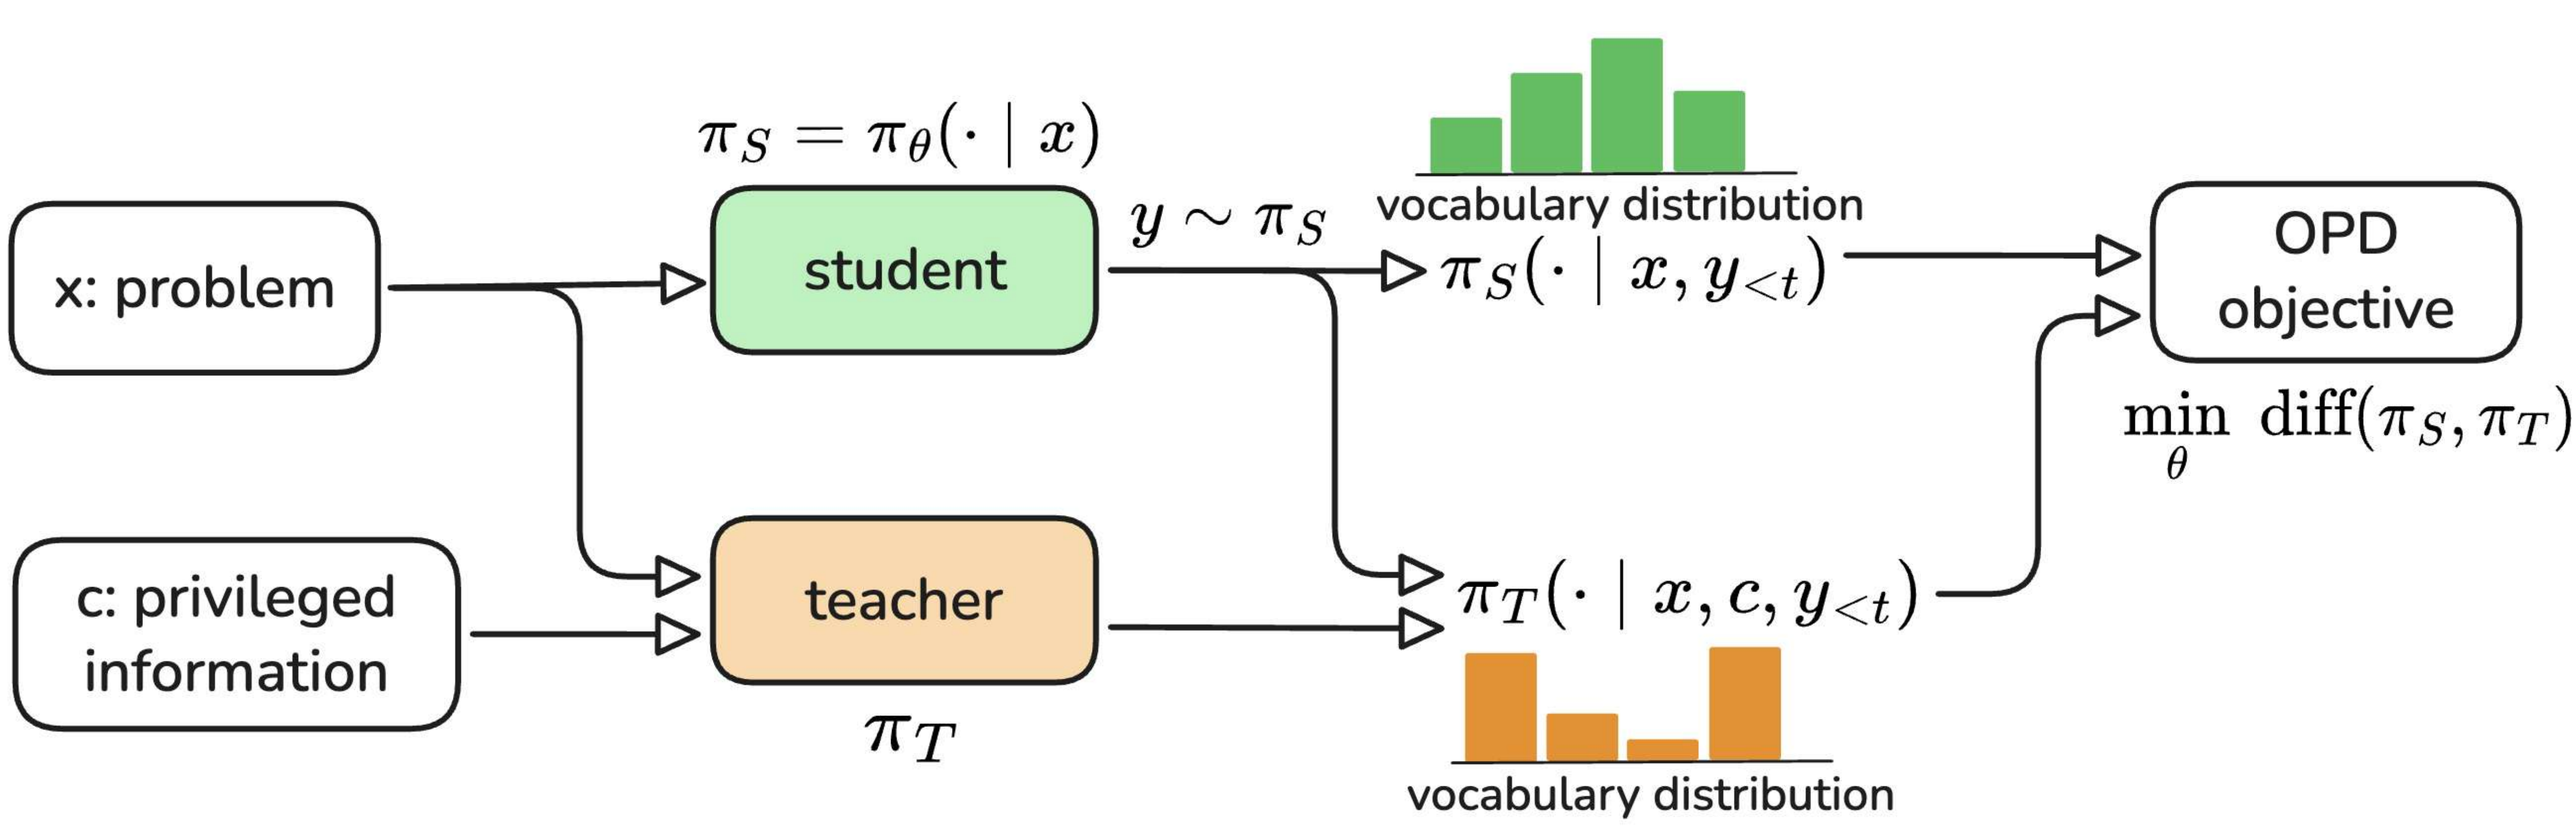
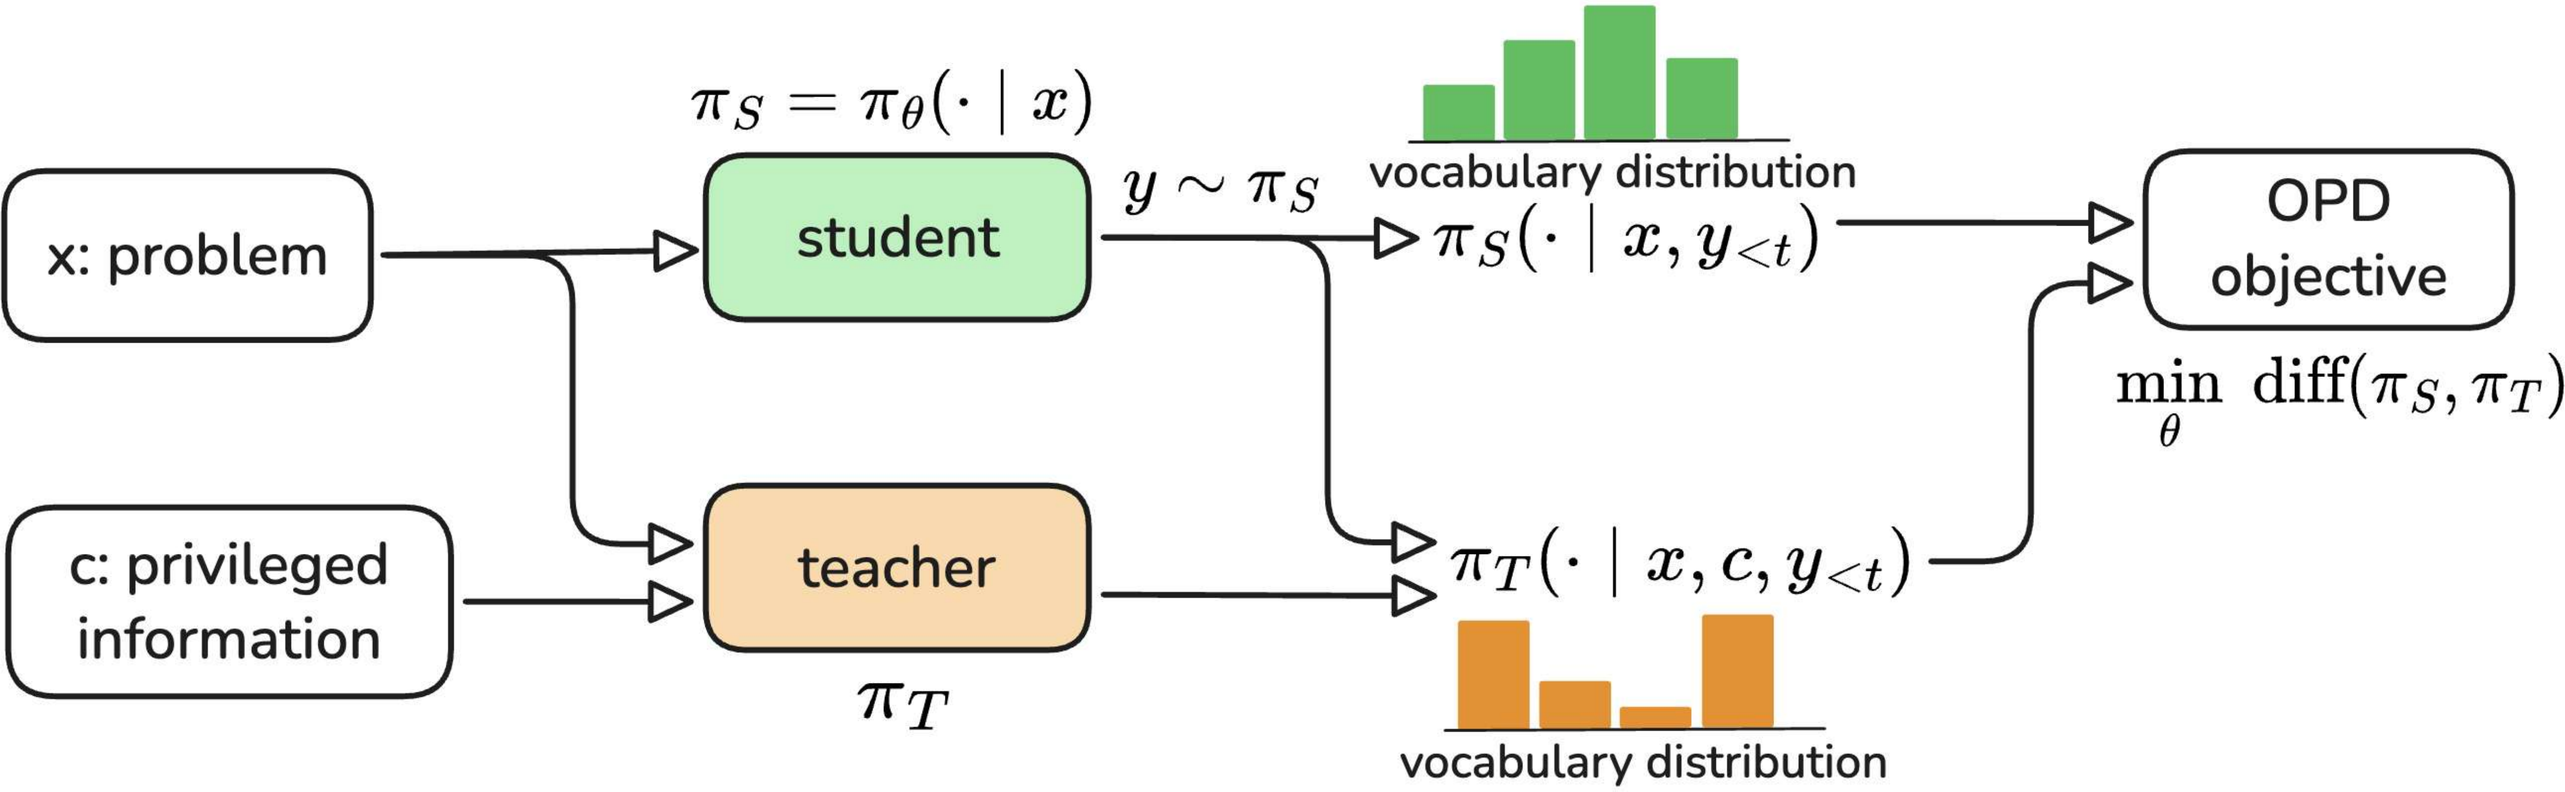
changed color

diff --git a/index.html b/index.html
@@ -45,7 +45,7 @@
   }
   a:hover{color:var(--accent)}
 
-  .container{max-width:720px;margin:0 auto;padding:0 24px}
+  .container{max-width:760px;margin:0 auto;padding:0 24px}
 
   /* Top meta strip — like Anthropic's tiny header */
   .topbar{
@@ -103,8 +103,8 @@
 
   /* SECTIONS */
   article{padding:8px 0 0}
-  section{padding:44px 0 8px}
-  section + section{padding-top:8px}
+  section{padding:36px 0 4px}
+  section + section{padding-top:4px}
   h2.eyebrow{
     font-family:var(--sans);
     font-size:12px;
@@ -125,9 +125,9 @@
   }
   h4.sub{
     font-family:var(--serif);
-    font-size:21px;
+    font-size:20px;
     font-weight:600;
-    margin:32px 0 10px;
+    margin:28px 0 8px;
     color:var(--ink);
   }
   p{margin:0 0 18px;color:var(--soft)}
@@ -137,7 +137,7 @@
 
   /* FIGURES — no card chrome, just image + italic caption */
   figure.fig{
-    margin:32px 0 8px;
+    margin:28px 0 12px;
     background:transparent;
     border:none;
     padding:0;
@@ -148,6 +148,7 @@
     width:100%;
     display:block;
     border-radius:2px;
+    mix-blend-mode:multiply;
   }
   figure.fig figcaption{
     font-family:var(--serif);
@@ -155,70 +156,76 @@
     font-size:15px;
     line-height:1.55;
     color:var(--muted);
-    margin-top:14px;
+    margin-top:12px;
     text-align:left;
     padding-left:0;
   }
-  figure.fig.fig-sm{max-width:460px;margin-left:0;margin-right:auto}
-  figure.fig.fig-md{max-width:560px;margin-left:0;margin-right:auto}
   /* break out wide figures slightly past the text column */
-  figure.fig.wide{margin-left:-40px;margin-right:-40px}
-  @media(max-width:820px){
+  figure.fig.wide{margin-left:-60px;margin-right:-60px}
+  @media(max-width:900px){
     figure.fig.wide{margin-left:0;margin-right:0}
   }
 
-  /* "Verdicts" — replace cards with inline list rows */
-  .verdicts{margin:14px 0 8px;border-top:1px solid var(--rule)}
+  /* "Verdicts" — compact 2-column grid */
+  .verdicts{
+    margin:18px 0 8px;
+    display:grid;grid-template-columns:1fr 1fr;
+    gap:0;
+    border-top:1px solid var(--rule);
+    border-left:1px solid var(--rule);
+  }
   .verdict{
     border:none;background:transparent;border-radius:0;box-shadow:none;
-    padding:18px 0;
+    padding:16px 18px;
+    border-right:1px solid var(--rule);
     border-bottom:1px solid var(--rule);
-    display:grid;grid-template-columns:120px 1fr;gap:20px;align-items:start;
   }
   .verdict .tag{
     font-family:var(--sans);
-    font-size:11px;font-weight:600;letter-spacing:.12em;
+    font-size:10.5px;font-weight:600;letter-spacing:.14em;
     text-transform:uppercase;
     padding:0;background:transparent;border-radius:0;
-    margin:6px 0 0;
+    display:block;margin:0 0 6px;
   }
   .tag.ok{color:#3f7a52}
   .tag.no{color:var(--accent)}
   .tag.mid{color:#9a7415}
   .verdict h4{
     font-family:var(--serif);
-    font-size:19px;font-weight:600;margin:0 0 4px;line-height:1.3;color:var(--ink);
+    font-size:17px;font-weight:600;margin:0 0 4px;line-height:1.3;color:var(--ink);
   }
-  .verdict p{font-size:16px;line-height:1.6;color:var(--soft);margin:0}
+  .verdict p{font-size:15px;line-height:1.55;color:var(--soft);margin:0}
 
   @media(max-width:600px){
-    .verdict{grid-template-columns:1fr;gap:6px}
+    .verdicts{grid-template-columns:1fr}
   }
 
   /* MECHANISM / FIX cards → numbered editorial blocks */
-  .cards{margin:18px 0 0;display:block}
+  .cards{margin:18px 0 0;display:block;border-top:1px solid var(--rule)}
   .card{
     background:transparent;border:none;border-radius:0;box-shadow:none;
-    padding:22px 0 22px 24px;
-    border-left:1px solid var(--rule);
+    padding:18px 0 18px 0;
+    border-bottom:1px solid var(--rule);
     margin-bottom:0;
-    border-top:none;
-  }
-  .card + .card{border-top:1px solid var(--rule)}
-  .card.fail{border-left-color:var(--accent)}
-  .card.fix{border-left-color:#3f7a52}
-  .card .num{
-    font-family:var(--sans);
-    font-size:11px;font-weight:600;letter-spacing:.18em;text-transform:uppercase;
-    color:var(--muted);
+    display:grid;grid-template-columns:120px 1fr;gap:24px;align-items:start;
   }
   .card.fail .num{color:var(--accent)}
   .card.fix .num{color:#3f7a52}
+  .card .num{
+    font-family:var(--sans);
+    font-size:11px;font-weight:600;letter-spacing:.16em;text-transform:uppercase;
+    color:var(--muted);
+    padding-top:4px;
+  }
   .card h4{
     font-family:var(--serif);
-    font-size:22px;font-weight:600;margin:6px 0 10px;line-height:1.25;color:var(--ink);
+    font-size:19px;font-weight:600;margin:0 0 6px;line-height:1.3;color:var(--ink);
   }
-  .card p{font-size:17px;line-height:1.65;color:var(--soft);margin:0}
+  .card p{font-size:16px;line-height:1.62;color:var(--soft);margin:0}
+  .card .body > .eq{margin-top:12px}
+  @media(max-width:600px){
+    .card{grid-template-columns:1fr;gap:6px}
+  }
 
   /* CALLOUT — left-rule editorial pull */
   .callout{
@@ -266,7 +273,7 @@
     display:grid;grid-template-columns:repeat(3,1fr);gap:14px;margin-top:22px;
   }
   .grid3 figure{margin:0;background:transparent;border:none;padding:0;box-shadow:none}
-  .grid3 img{width:100%;display:block;border-radius:2px}
+  .grid3 img{width:100%;display:block;border-radius:2px;mix-blend-mode:multiply}
   .grid3 figcaption{
     font-family:var(--serif);font-style:italic;
     font-size:13px;color:var(--muted);text-align:left;margin-top:8px;line-height:1.5;
@@ -344,7 +351,7 @@
     <h3 class="section-title">A unified look at OPD and OPSD across reasoning, prompting, and alignment.</h3>
     <p class="lede">On-policy distillation (OPD) trains a student on its own rollouts while a teacher provides dense token-level supervision. Reported results have been inconsistent — some papers see big wins, others see collapse. We run side-by-side experiments to map where each variant succeeds and where it fails, isolate the failure modes, and offer concrete fixes that restore stability.</p>
 
-    <figure class="fig">
+    <figure class="fig wide">
       <img src="assets/overview.png" alt="Overview figure showing the OPD/OPSD design space, three failure modes, and proposed fixes." />
       <figcaption>The OP(S)D design space, observed task-dependent behaviors, three failure mechanisms, and the corresponding fixes.</figcaption>
     </figure>
@@ -355,15 +362,9 @@
   <div class="container">
     <h2 class="eyebrow">Background</h2>
     <h3 class="section-title">OPD vs. OPSD in one breath.</h3>
-    <p>Both methods sample trajectories from the student and ask a teacher to score them token-by-token. The teacher is sourced differently in each:</p>
+    <p>Both methods sample trajectories from the student and ask a teacher to score them token-by-token; they differ only in where the teacher comes from. In <strong>OPD</strong>, the teacher is a separate, typically larger model, and privileged information (PI) is optional — the promise is a cheap way to transfer capability into a smaller student. In <strong>OPSD</strong>, the teacher is the student itself, conditioned on extra information the student does not see at test time: a ground-truth answer, a system prompt, or a preference rule. The same loss; very different inductive biases.</p>
 
-    <h4 class="sub">OPD — stronger external teacher</h4>
-    <p>The teacher is a separate, typically larger model. Privileged information (PI) is optional. The promise is a cheap way to transfer capability into a smaller student.</p>
-
-    <h4 class="sub">OPSD — self-teacher with privileged context</h4>
-    <p>The teacher is the student itself, but conditioned on extra information the student does not see at test time — a ground-truth answer, a system prompt, or a preference rule.</p>
-
-    <figure class="fig fig-sm">
+    <figure class="fig">
       <img src="assets/opsdfig1.png" alt="Diagram of OPD and OPSD setups." />
       <figcaption>In OPSD, the teacher is built from the student plus PI. In OPD, the teacher is an external stronger model and PI is optional.</figcaption>
     </figure>
@@ -379,31 +380,23 @@
     <div class="verdicts">
       <div class="verdict">
         <span class="tag no">Fails</span>
-        <div>
-          <h4>OPSD on math reasoning</h4>
-          <p>Per-question PI varies from problem to problem, so the student is pushed toward a marginal, PI-free policy that no individual teacher endorses.</p>
-        </div>
+        <h4>OPSD on math reasoning</h4>
+        <p>Per-question PI varies from problem to problem, pushing the student toward a marginal, PI-free policy that no individual teacher endorses.</p>
       </div>
       <div class="verdict">
         <span class="tag mid">Fragile</span>
-        <div>
-          <h4>OPD on math reasoning</h4>
-          <p>Initial gains, then collapse: rollouts grow long, fill with hedging tokens like "wait" and "maybe", and accuracy crashes near zero.</p>
-        </div>
+        <h4>OPD on math reasoning</h4>
+        <p>Initial gains, then collapse: rollouts grow long, fill with hedging tokens, and accuracy crashes near zero.</p>
       </div>
       <div class="verdict">
         <span class="tag ok">Works</span>
-        <div>
-          <h4>System-prompt internalization</h4>
-          <p>A fixed system prompt acts as a shared rule. OPSD compresses prompted behavior into the model with no accuracy loss and shorter responses.</p>
-        </div>
+        <h4>System-prompt internalization</h4>
+        <p>A fixed prompt acts as a shared rule. OPSD compresses prompted behavior into the model with no accuracy loss.</p>
       </div>
       <div class="verdict">
         <span class="tag ok">Works</span>
-        <div>
-          <h4>Style alignment</h4>
-          <p>On CharacterBench and EmotionBench, OPSD converges faster than GRPO and PPO under matched sampling budgets.</p>
-        </div>
+        <h4>Style alignment</h4>
+        <p>On CharacterBench and EmotionBench, OPSD converges faster than GRPO and PPO at matched sampling budgets.</p>
       </div>
     </div>
 
@@ -426,23 +419,29 @@
     <div class="cards">
       <div class="card fail">
         <div class="num">Mechanism 01</div>
-        <h4>Student prefixes distort the teacher</h4>
-        <p>Teacher tokens are scored on partial trajectories the student wrote. Conditioned on a committed-to branch the teacher would never have chosen, it tends to emit revision tokens — "wait", "but" — that pull the trajectory sideways instead of forward, producing local semantic conflict.</p>
+        <div class="body">
+          <h4>Student prefixes distort the teacher</h4>
+          <p>Teacher tokens are scored on partial trajectories the student wrote. Conditioned on a committed-to branch the teacher would never have chosen, it tends to emit revision tokens — "wait", "but" — that pull the trajectory sideways instead of forward, producing local semantic conflict.</p>
+        </div>
       </div>
       <div class="card fail">
         <div class="num">Mechanism 02</div>
-        <h4>Top-K reverse-KL has a biased gradient</h4>
-        <p>Truncating reverse-KL to the top-K vocabulary keeps memory tractable but breaks a cancellation that holds for the full vocabulary. A spurious +1 term survives, so a token is only pushed up if the teacher gives it more than <em>e×</em> the student's mass — smaller margins are silently suppressed.</p>
-        <div class="eq" style="margin-top:14px"><span class="c"># surviving bias term in the gradient</span><br/>∇L<sub>topK-RKL</sub> ∝ Σ π<sub>S</sub>(v) · [ log(π<sub>S</sub>/π<sub>T</sub>) <span class="k">+ 1</span> ] · ∇log π<sub>S</sub>(v)</div>
+        <div class="body">
+          <h4>Top-K reverse-KL has a biased gradient</h4>
+          <p>Truncating reverse-KL to the top-K vocabulary keeps memory tractable but breaks a cancellation that holds for the full vocabulary. A spurious +1 term survives, so a token is only pushed up if the teacher gives it more than <em>e×</em> the student's mass — smaller margins are silently suppressed.</p>
+          <div class="eq"><span class="c"># surviving bias term in the gradient</span><br/>∇L<sub>topK-RKL</sub> ∝ Σ π<sub>S</sub>(v) · [ log(π<sub>S</sub>/π<sub>T</sub>) <span class="k">+ 1</span> ] · ∇log π<sub>S</sub>(v)</div>
+        </div>
       </div>
       <div class="card fail">
         <div class="num">Mechanism 03</div>
-        <h4>OPSD only learns the PI-free margin</h4>
-        <p>The student never sees PI, so the optimum it is pushed toward is the geometric mean across PI-conditioned teachers. When PI varies per problem, those teachers prescribe incompatible behaviors, and the consensus is weaker than any of them.</p>
+        <div class="body">
+          <h4>OPSD only learns the PI-free margin</h4>
+          <p>The student never sees PI, so the optimum it is pushed toward is the geometric mean across PI-conditioned teachers. When PI varies per problem, those teachers prescribe incompatible behaviors, and the consensus is weaker than any of them.</p>
+        </div>
       </div>
     </div>
 
-    <figure class="fig fig-sm">
+    <figure class="fig">
       <img src="assets/opdfail.png" alt="Illustration of local semantic conflict in OPD."/>
       <figcaption>When the teacher's preferred path diverges from the student's prefix, supervision often pushes the student to switch branches mid-thought rather than refine the current one.</figcaption>
     </figure>
@@ -465,7 +464,7 @@
     </div>
 
     <h4 class="sub">Why PI structure is the deciding factor.</h4>
-    <figure class="fig fig-md">
+    <figure class="fig wide">
       <img src="assets/OPSD_diffPI.png" alt="OPSD effectiveness depends on PI structure."/>
       <figcaption>Instance-specific PI (e.g., a problem's gold answer) drives OPSD-conditioned teachers in incompatible directions per example. Shared-rule PI (e.g., a fixed system prompt) gives the student a single inductive bias to absorb.</figcaption>
     </figure>
@@ -479,18 +478,24 @@
     <div class="cards">
       <div class="card fix">
         <div class="num">Fix 01</div>
-        <h4>Stop-gradient Top-K KL</h4>
-        <p>Stop gradients on the student log-prob inside the loss, leaving only the teacher–student log-ratio as an advantage-like weight. The biased +1 term disappears and training stays stable. Renormalizing within the Top-K set is a comparable alternative.</p>
+        <div class="body">
+          <h4>Stop-gradient Top-K KL</h4>
+          <p>Stop gradients on the student log-prob inside the loss, leaving only the teacher–student log-ratio as an advantage-like weight. The biased +1 term disappears and training stays stable. Renormalizing within the Top-K set is a comparable alternative.</p>
+        </div>
       </div>
       <div class="card fix">
         <div class="num">Fix 02</div>
-        <h4>RLVR-adapt the teacher first</h4>
-        <p>Run RL with verifiable rewards on the teacher before distilling. A 1.7B model lifted by GRPO is a <em>better</em> OPD teacher than an out-of-the-box 8B — closer in distribution to the student even at similar accuracy, so its token-level signals fit the student's prefixes.</p>
+        <div class="body">
+          <h4>RLVR-adapt the teacher first</h4>
+          <p>Run RL with verifiable rewards on the teacher before distilling. A 1.7B model lifted by GRPO is a <em>better</em> OPD teacher than an out-of-the-box 8B — closer in distribution to the student even at similar accuracy, so its token-level signals fit the student's prefixes.</p>
+        </div>
       </div>
       <div class="card fix">
         <div class="num">Fix 03</div>
-        <h4>SFT-warm the student</h4>
-        <p>When the student emits malformed or off-language tokens, the teacher cannot give meaningful feedback. A short SFT pass on teacher-generated traces reins in the output space, stabilizes response length, and lets the subsequent OPD phase improve accuracy instead of collapsing.</p>
+        <div class="body">
+          <h4>SFT-warm the student</h4>
+          <p>When the student emits malformed or off-language tokens, the teacher cannot give meaningful feedback. A short SFT pass on teacher-generated traces reins in the output space, stabilizes response length, and lets the subsequent OPD phase improve accuracy instead of collapsing.</p>
+        </div>
       </div>
     </div>
 
